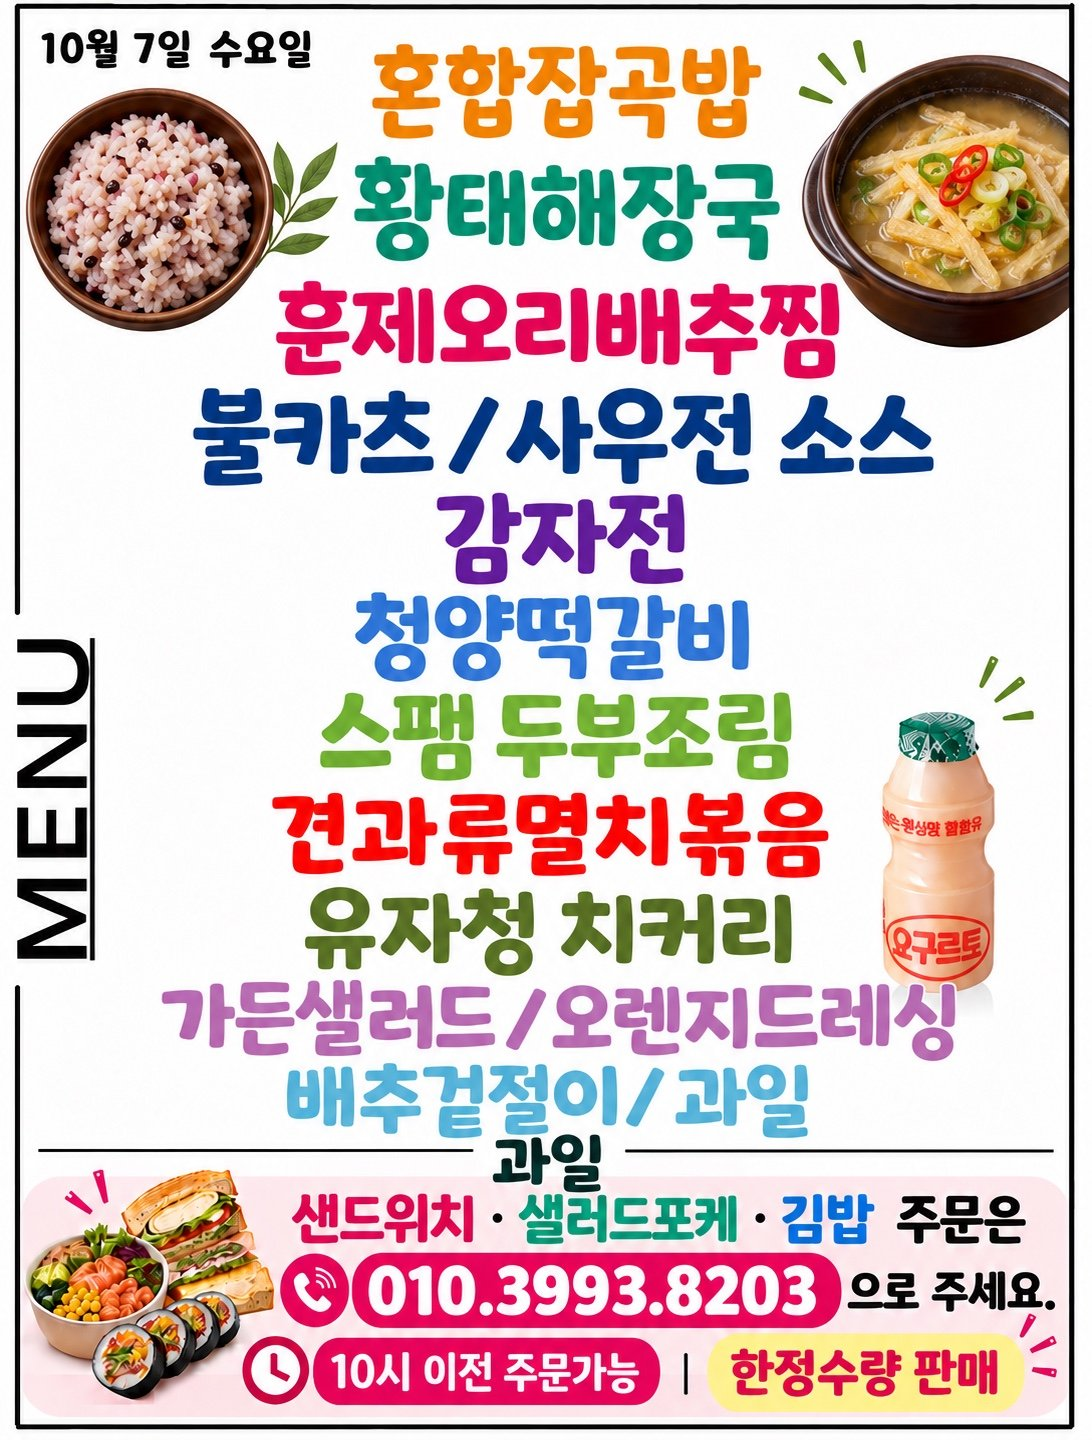
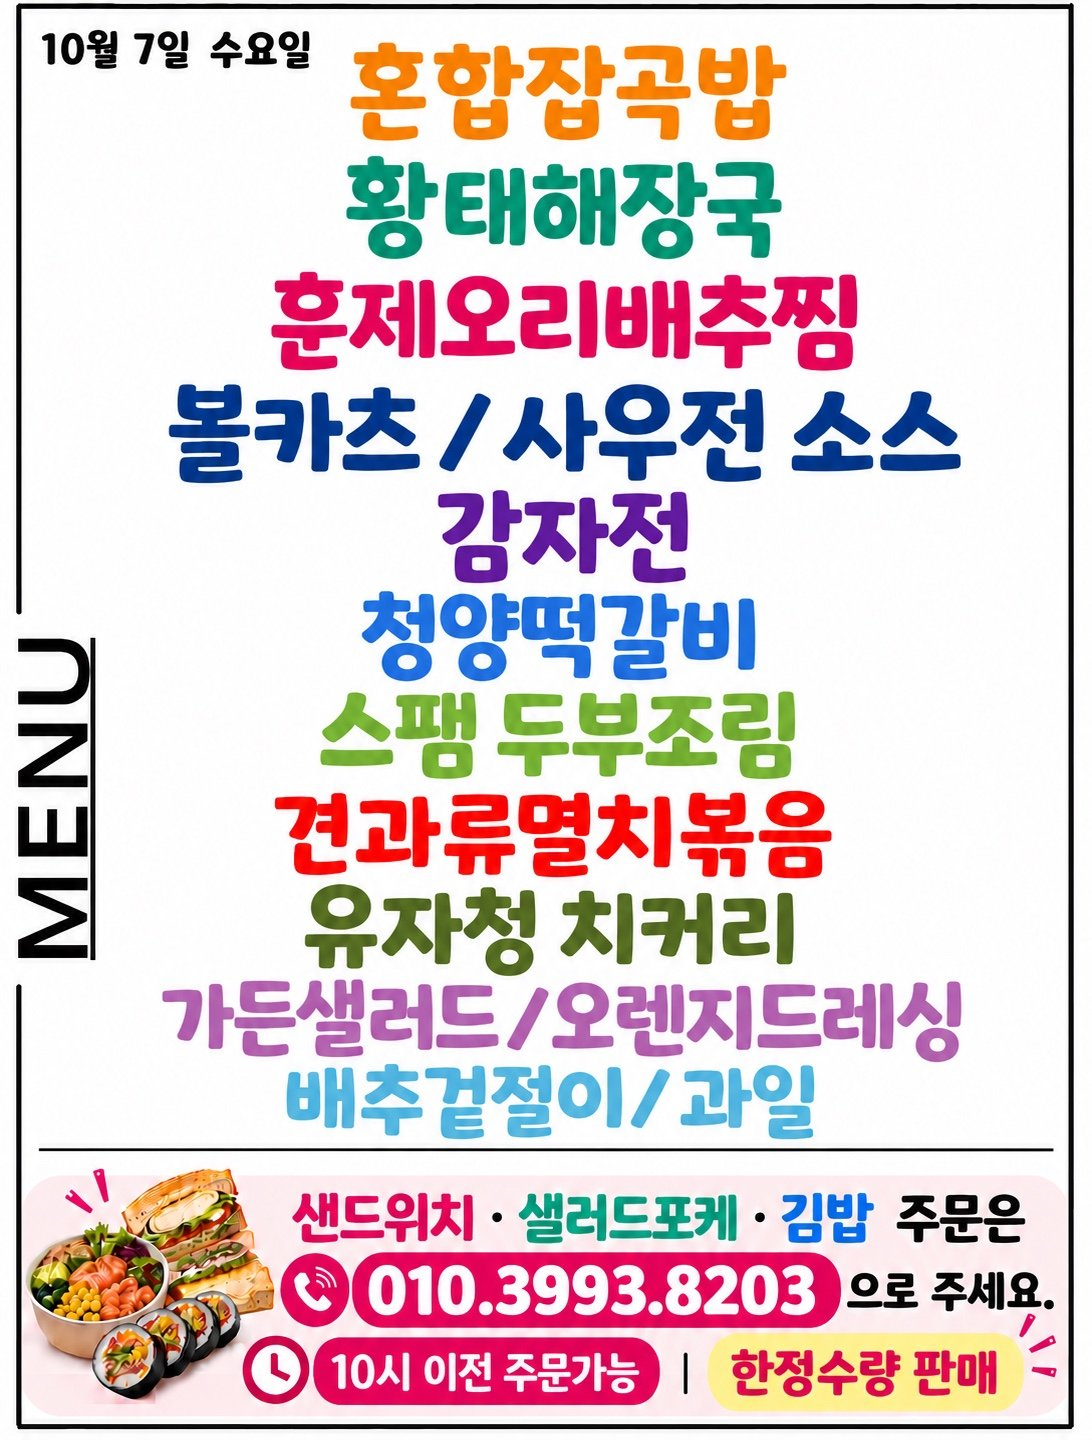
Update menu board assets

diff --git a/menu-today/index.html b/menu-today/index.html
@@ -209,7 +209,7 @@
 
     <section class="meta-bar">
       <div class="meta-card"><div class="meta-label">기준 날짜</div><div class="meta-value">2026년 10월 7일 수요일</div></div>
-      <div class="meta-card"><div class="meta-label">최종 가져온 시간</div><div class="meta-value">2026-10-07 10:33:27</div></div>
+      <div class="meta-card"><div class="meta-label">최종 가져온 시간</div><div class="meta-value">2026-10-07 10:48:11</div></div>
       <div class="meta-card"><div class="meta-label">확인 완료</div><div class="meta-value">9개 식당</div></div>
       <div class="meta-card"><div class="meta-label">준비중</div><div class="meta-value">3개 채널</div></div>
     </section>
@@ -295,7 +295,7 @@
             <div class="sub">에이스테크노타워10차</div>
           </div>
         </div>
-        <div class="menu-inline-image"><img src="./images/thefoodsketch.png" alt="더푸드스케치 식단 이미지"></div><ul><li>황태해장국</li><li>불카츠 / 사우전 소스</li><li>= 스팸 두부조림 ※</li><li>sR 유이 / 과을</li><li>일 수요일</li></ul>
+        <div class="menu-inline-image"><img src="./images/thefoodsketch.png" alt="더푸드스케치 식단 이미지"></div><ul><li>온합잡곡밥</li><li>황태해장국</li><li>호제오리배주짱</li><li>볼카츠 / 사우전 소스</li><li>감자전</li><li>정양떡갈비</li><li>&gt; 스팸 두부조림</li><li>ui 견과류멸치볶음</li><li>= 유자청 치커리</li><li>가든샐러드 / 오렌지드레싱</li><li>배추걷절이 / 과일</li></ul>
       </article>
 
       <article class="restaurant-card">

diff --git a/guro-menu/index.html b/guro-menu/index.html
@@ -32,7 +32,7 @@
   </header>
   <section class="meta">
     <div><small>기준 날짜</small><strong>2026년 10월 7일 수요일</strong></div>
-    <div><small>최종 갱신</small><strong>2026-10-07 10:33:43</strong></div>
+    <div><small>최종 갱신</small><strong>2026-10-07 10:48:26</strong></div>
     <div><small>등록 식당</small><strong>5개</strong></div>
   </section>
   <div class="notice">공개 카카오 채널의 메뉴 이미지를 자동 수집하고 OCR로 정리합니다. 텍스트에 오타가 있을 수 있으니 식단 이미지를 함께 확인해 주세요.</div>
